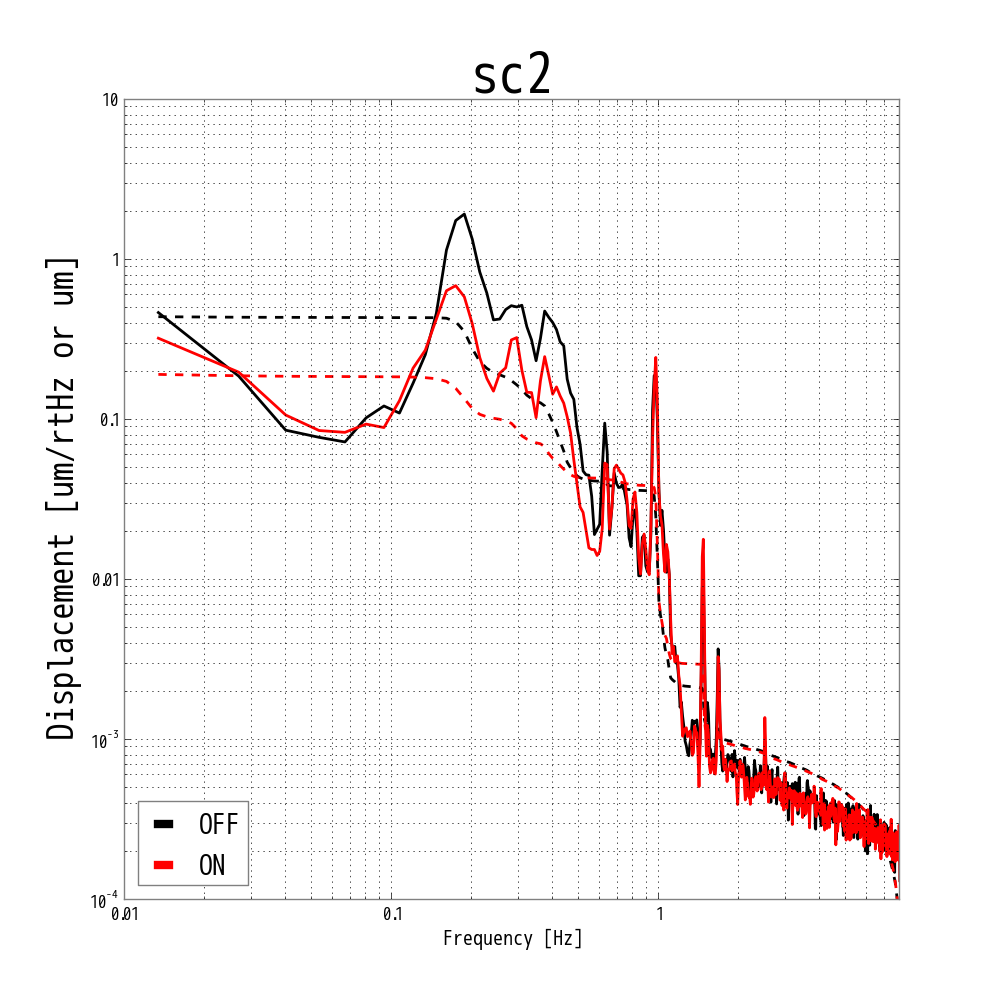
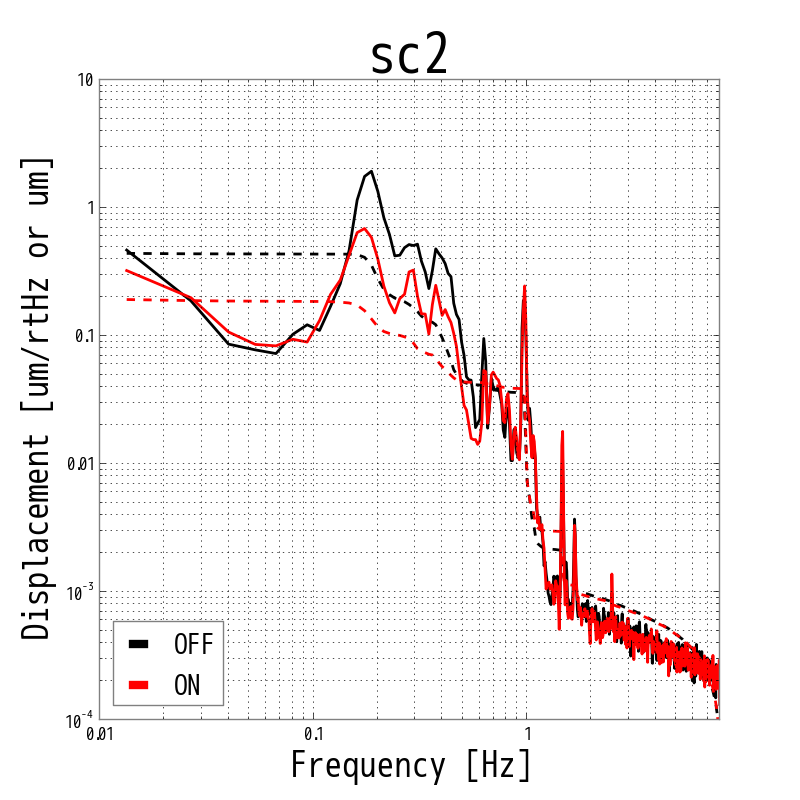
Update

diff --git a/alcs/sensor_correction_trial/main_sc2.py b/alcs/sensor_correction_trial/main_sc2.py
@@ -66,7 +66,7 @@ xarm0 = huge(start0,end0)
 xarm1 = huge(start1,end1)
 # plot
 title = 'sc2'
-fig, ax1 = plt.subplots(1,1,figsize=(10,10),sharex=True)
+fig, ax1 = plt.subplots(1,1,figsize=(8,8),sharex=True)
 plt.subplots_adjust(hspace=0.06)
 ax1.set_title(title,fontsize=40)
 ax1.loglog(xarm0,label='OFF',color='k',linewidth=2)
@@ -76,7 +76,7 @@ ax1.loglog(xarm1.rms(),color='r',linewidth=2,linestyle='--')
 ax1.set_ylabel('Displacement [um/rtHz or um]',fontsize=25)
 ax1.legend(fontsize=20,loc='lower left')
 ax1.set_ylim(1e-4,10)
-ax1.set_xlabel('Frequency [Hz]')
+ax1.set_xlabel('Frequency [Hz]',fontsize=25)
 #ax1.set_ylim(0,1)
 ax1.set_xlim(1e-2,8)
 plt.savefig('./{0}.png'.format(title))
